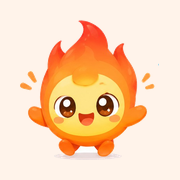
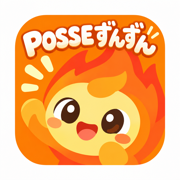
アプリアイコン変更

diff --git a/public/sw.js b/public/sw.js
@@ -2,7 +2,7 @@
  * - ページ遷移：ネットワーク優先、オフライン時はキャッシュ
  * - 同一オリジンの静的ファイルと Google Fonts：キャッシュ優先で裏で更新
  * 配信内容を変えたら CACHE のバージョンを上げる。 */
-const CACHE = 'minidrill-v4';
+const CACHE = 'minidrill-v5';
 
 self.addEventListener('install', (event) => {
   event.waitUntil(caches.open(CACHE).then((cache) => cache.addAll(['/', '/manifest.json'])));
